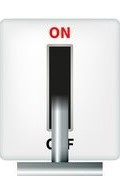
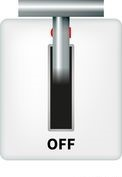
Added working lever and timing

Changed region(s): [[0.0, 0.0, 1.0, 1.0]]

diff --git a/CarnivalProject/odoo.js b/CarnivalProject/odoo.js
@@ -1,1 +1,1 @@
-!function(t,e){"object"==typeof exports&&"object"==typeof module?module.exports=e():"function"==typeof define&&define.amd?define([],e):"object"==typeof exports?exports.odoo=e():t.odoo=e()}(this,function(){return function(t){function e(a){if(r[a])return r[a].exports;var n=r[a]={exports:{},id:a,loaded:!1};return t[a].call(n.exports,n,n.exports,e),n.loaded=!0,n.exports}var r={};return e.m=t,e.c=r,e.p="/",e(0)}([function(t,e,r){"use strict";function a(t){return t&&t.__esModule?t:{"default":t}}Object.defineProperty(e,"__esModule",{value:!0});var n=r(2);Object.defineProperty(e,"default",{enumerable:!0,get:function(){return a(n)["default"]}})},function(t,e){"use strict";Object.defineProperty(e,"__esModule",{value:!0}),e["default"]=function(t){var e=void 0,r=function a(r){e=requestAnimationFrame(a),t(r)};return r(0),function(){return cancelAnimationFrame(e)}}},function(t,e,r){"use strict";function a(t){return t&&t.__esModule?t:{"default":t}}Object.defineProperty(e,"__esModule",{value:!0});var n=r(1),l=a(n),o=r(5),i=r(10),c=a(i),u=" 0123456789".split(""),f=u.length,d=2,s=function(t,e,r,a){var n,l=(n=(n=o.append.call(t,"g"),o.attr).call(n,"id","digit-"+a),o.style).call(n,"filter","url(#motionFilter-"+a+")");return u.forEach(function(t,a){var n;(n=(n=o.append.call(l,"text"),o.attr).call(n,"y",-a*e*r),o.text).call(n,t)}),l},p=function(t,e){var r;return(r=(r=(r=(r=(r=(r=(r=o.append.call(t,"filter"),o.attr).call(r,"id","motionFilter-"+e),o.attr).call(r,"width","300%"),o.attr).call(r,"x","-100%"),o.append).call(r,"feGaussianBlur"),o.attr).call(r,"class","blurValues"),o.attr).call(r,"in","SourceGraphic"),o.attr).call(r,"stdDeviation","0 0")},v=function(t){var e;return(e=(e=(e=(e=(e=o.append.call(t,"filter"),o.attr).call(e,"id","createShadowFailFilter"),o.attr).call(e,"width","300%"),o.attr).call(e,"x","-100%"),o.append).call(e,"feGaussianBlur"),o.attr).call(e,"stdDeviation","0 0")},y=function(t,e){var r;return(r=(r=(r=(r=(r=(r=(r=(r=(r=(r=(r=(r=(r=(r=(r=(r=(r=(r=(r=(r=(r=(r=(r=(r=o.append.call(t,"linearGradient"),o.attr).call(r,"id","gradient-"+e),o.attr).call(r,"x1","0%"),o.attr).call(r,"y1","0%"),o.attr).call(r,"x2","0%"),o.attr).call(r,"y2","100%"),o.append).call(r,"stop"),o.attr).call(r,"offset","0"),o.attr).call(r,"stop-color","white"),o.attr).call(r,"stop-opacity","0"),o.select).call(r,"#gradient-"+e),o.append).call(r,"stop"),o.attr).call(r,"offset","0.2"),o.attr).call(r,"stop-color","white"),o.attr).call(r,"stop-opacity","1"),o.select).call(r,"#gradient-"+e),o.append).call(r,"stop"),o.attr).call(r,"offset","0.8"),o.attr).call(r,"stop-color","white"),o.attr).call(r,"stop-opacity","1"),o.select).call(r,"#gradient-"+e),o.append).call(r,"stop"),o.attr).call(r,"offset","1"),o.attr).call(r,"stop-color","white"),o.attr).call(r,"stop-opacity","0")},h=function(t,e){var r;return(r=(r=(r=(r=(r=(r=(r=o.append.call(t,"mask"),o.attr).call(r,"id","mask-"+e),o.append).call(r,"rect"),o.attr).call(r,"x",0),o.attr).call(r,"y",0),o.attr).call(r,"width","100%"),o.attr).call(r,"height","100%"),o.attr).call(r,"fill","url(#gradient-"+e+")")},m=function(t,e,r){var a;return(a=(a=(a=o.attr.call(t,"width",e),o.attr).call(a,"height",r),o.attr).call(a,"viewBox","0 0 "+e+" "+r),o.style).call(a,"overflow","hidden")};e["default"]=function(t){var e,r=t.el,a=t.from,n=t.to,i=t.lineHeight,g=void 0===i?1.35:i,b=t.letterSpacing,_=void 0===b?1:b,x=t.animationDelay,j=void 0===x?100:x,M=t.letterAnimationDelay,w=void 0===M?100:M,O=(0,o.select)(r),P=window.getComputedStyle(O),S=parseInt(P.fontSize,10),D=(S*g-S)/2+S/10,E=S*g-D,F=Date.now(),B=0,k=S*g+D;O.innerHTML="";var A=o.append.call(O,"svg"),G=(e=o.append.call(A,"svg"),o.attr).call(e,"mask","url(#mask-"+F+")"),C=o.append.call(A,"defs");y(C,F),h(C,F),v(C);var H=String(a).replace(/ /g," ").split(""),q=String(n).replace(/ /g," ").split(""),z=q.map(function(t,e){var r=e+"-"+F;return{id:r,node:s(G,S,g,r),filter:p(C,r),from:u.indexOf(H[e]),value:u.indexOf(t),offset:{x:0,y:E}}}),I=[];z.forEach(function(t,e){var r=t.from*(S*g),a=(d*f+t.value)*(S*g),n=(0,c["default"])({from:r,to:a,delay:(z.length-1-e)*w+j,step:function(e){var n;t.offset.y=E+e%(S*g*f),(n=t.node,o.attr).call(n,"transform","translate("+t.offset.x+", "+t.offset.y+")");var l=(a-r)/2,i=Math.abs(Math.abs(e-r-l)-l)/100;(n=t.filter,o.attr).call(n,"stdDeviation","0 "+i)},end:0===e?function(){return N()}:function(t){return t}});I.push(n)});var L=function(t){B=0,z.forEach(function(t){var e=t.node.getBBox(),r=e.width;t.offset.x=B,B+=r+_}),z.forEach(function(t){var e;(e=t.node,o.attr).call(e,"transform","translate("+t.offset.x+", "+t.offset.y+")")}),m(A,B,k),I.forEach(function(e){return e.update(t)})},N=(0,l["default"])(L);return N}},function(t,e,r){"use strict";function a(t){return t&&t.__esModule?t:{"default":t}}Object.defineProperty(e,"__esModule",{value:!0}),e["default"]=function(t){var e=document.createElementNS(l["default"].svg,t);return this.appendChild(e),e};var n=r(6),l=a(n)},function(t,e){"use strict";Object.defineProperty(e,"__esModule",{value:!0}),e["default"]=function(t,e){return this.setAttribute(t,e),this}},function(t,e,r){"use strict";function a(t){return t&&t.__esModule?t:{"default":t}}Object.defineProperty(e,"__esModule",{value:!0});var n=r(7);Object.defineProperty(e,"select",{enumerable:!0,get:function(){return a(n)["default"]}});var l=r(3);Object.defineProperty(e,"append",{enumerable:!0,get:function(){return a(l)["default"]}});var o=r(4);Object.defineProperty(e,"attr",{enumerable:!0,get:function(){return a(o)["default"]}});var i=r(8);Object.defineProperty(e,"style",{enumerable:!0,get:function(){return a(i)["default"]}});var c=r(9);Object.defineProperty(e,"text",{enumerable:!0,get:function(){return a(c)["default"]}})},function(t,e){"use strict";Object.defineProperty(e,"__esModule",{value:!0}),e["default"]={svg:"http://www.w3.org/2000/svg"}},function(t,e){"use strict";Object.defineProperty(e,"__esModule",{value:!0}),e["default"]=function(t){return t===String(t)?document.querySelector(t):t}},function(t,e){"use strict";Object.defineProperty(e,"__esModule",{value:!0}),e["default"]=function(t,e){var r=arguments.length<=2||void 0===arguments[2]?"":arguments[2];return this.style.setProperty(t,e,r),this}},function(t,e){"use strict";Object.defineProperty(e,"__esModule",{value:!0}),e["default"]=function(t){return this.textContent=t,this}},function(t,e){"use strict";Object.defineProperty(e,"__esModule",{value:!0});var r=function(t){return((t*=2)<=1?t*t*t:(t-=2)*t*t+2)/2};e["default"]=function(t){var e=t.from,a=t.to,n=t.duration,l=void 0===n?3e3:n,o=t.delay,i=void 0===o?0:o,c=t.easing,u=void 0===c?r:c,f=t.start,d=void 0===f?function(t){return t}:f,s=t.step,p=void 0===s?function(t){return t}:s,v=t.end,y=void 0===v?function(t){return t}:v,h=e,m=0,g=!1,b=function(t){if(!g){m||(m=t,d(h));var r=Math.min(Math.max(t-m-i,0),l)/l;h=u(r)*(a-e)+e,p(h),1===r&&(g=!0,y(h))}};return{update:b}}}])});
+!function(t,e){"object"==typeof exports&&"object"==typeof module?module.exports=e():"function"==typeof define&&define.amd?define([],e):"object"==typeof exports?exports.odoo=e():t.odoo=e()}(this,function(){return function(t){function e(a){if(r[a])return r[a].exports;var n=r[a]={exports:{},id:a,loaded:!1};return t[a].call(n.exports,n,n.exports,e),n.loaded=!0,n.exports}var r={};return e.m=t,e.c=r,e.p="/",e(0)}([function(t,e,r){"use strict";function a(t){return t&&t.__esModule?t:{"default":t}}Object.defineProperty(e,"__esModule",{value:!0});var n=r(2);Object.defineProperty(e,"default",{enumerable:!0,get:function(){return a(n)["default"]}})},function(t,e){"use strict";Object.defineProperty(e,"__esModule",{value:!0}),e["default"]=function(t){var e=void 0,r=function a(r){e=requestAnimationFrame(a),t(r)};return r(0),function(){return cancelAnimationFrame(e)}}},function(t,e,r){"use strict";function a(t){return t&&t.__esModule?t:{"default":t}}Object.defineProperty(e,"__esModule",{value:!0});var n=r(1),l=a(n),o=r(5),i=r(10),c=a(i),u=" 01234567890123456789".split(""),f=u.length,d=2,s=function(t,e,r,a){var n,l=(n=(n=o.append.call(t,"g"),o.attr).call(n,"id","digit-"+a),o.style).call(n,"filter","url(#motionFilter-"+a+")");return u.forEach(function(t,a){var n;(n=(n=o.append.call(l,"text"),o.attr).call(n,"y",-a*e*r),o.text).call(n,t)}),l},p=function(t,e){var r;return(r=(r=(r=(r=(r=(r=(r=o.append.call(t,"filter"),o.attr).call(r,"id","motionFilter-"+e),o.attr).call(r,"width","300%"),o.attr).call(r,"x","-100%"),o.append).call(r,"feGaussianBlur"),o.attr).call(r,"class","blurValues"),o.attr).call(r,"in","SourceGraphic"),o.attr).call(r,"stdDeviation","0 0")},v=function(t){var e;return(e=(e=(e=(e=(e=o.append.call(t,"filter"),o.attr).call(e,"id","createShadowFailFilter"),o.attr).call(e,"width","300%"),o.attr).call(e,"x","-100%"),o.append).call(e,"feGaussianBlur"),o.attr).call(e,"stdDeviation","0 0")},y=function(t,e){var r;return(r=(r=(r=(r=(r=(r=(r=(r=(r=(r=(r=(r=(r=(r=(r=(r=(r=(r=(r=(r=(r=(r=(r=(r=o.append.call(t,"linearGradient"),o.attr).call(r,"id","gradient-"+e),o.attr).call(r,"x1","0%"),o.attr).call(r,"y1","0%"),o.attr).call(r,"x2","0%"),o.attr).call(r,"y2","100%"),o.append).call(r,"stop"),o.attr).call(r,"offset","0"),o.attr).call(r,"stop-color","white"),o.attr).call(r,"stop-opacity","0"),o.select).call(r,"#gradient-"+e),o.append).call(r,"stop"),o.attr).call(r,"offset","0.2"),o.attr).call(r,"stop-color","white"),o.attr).call(r,"stop-opacity","1"),o.select).call(r,"#gradient-"+e),o.append).call(r,"stop"),o.attr).call(r,"offset","0.8"),o.attr).call(r,"stop-color","white"),o.attr).call(r,"stop-opacity","1"),o.select).call(r,"#gradient-"+e),o.append).call(r,"stop"),o.attr).call(r,"offset","1"),o.attr).call(r,"stop-color","white"),o.attr).call(r,"stop-opacity","0")},h=function(t,e){var r;return(r=(r=(r=(r=(r=(r=(r=o.append.call(t,"mask"),o.attr).call(r,"id","mask-"+e),o.append).call(r,"rect"),o.attr).call(r,"x",0),o.attr).call(r,"y",0),o.attr).call(r,"width","100%"),o.attr).call(r,"height","100%"),o.attr).call(r,"fill","url(#gradient-"+e+")")},m=function(t,e,r){var a;return(a=(a=(a=o.attr.call(t,"width",e),o.attr).call(a,"height",r),o.attr).call(a,"viewBox","0 0 "+e+" "+r),o.style).call(a,"overflow","hidden")};e["default"]=function(t){var e,r=t.el,a=t.from,n=t.to,i=t.lineHeight,g=void 0===i?1.35:i,b=t.letterSpacing,_=void 0===b?1:b,x=t.animationDelay,j=void 0===x?100:x,M=t.letterAnimationDelay,w=void 0===M?100:M,O=(0,o.select)(r),P=window.getComputedStyle(O),S=parseInt(P.fontSize,10),D=(S*g-S)/2+S/10,E=S*g-D,F=Date.now(),B=0,k=S*g+D;O.innerHTML="";var A=o.append.call(O,"svg"),G=(e=o.append.call(A,"svg"),o.attr).call(e,"mask","url(#mask-"+F+")"),C=o.append.call(A,"defs");y(C,F),h(C,F),v(C);var H=String(a).replace(/ /g," ").split(""),q=String(n).replace(/ /g," ").split(""),z=q.map(function(t,e){var r=e+"-"+F;return{id:r,node:s(G,S,g,r),filter:p(C,r),from:u.indexOf(H[e]),value:u.indexOf(t),offset:{x:0,y:E}}}),I=[];z.forEach(function(t,e){var r=t.from*(S*g),a=(d*f+t.value)*(S*g),n=(0,c["default"])({from:r,to:a,delay:(z.length-1-e)*w+j,step:function(e){var n;t.offset.y=E+e%(S*g*f),(n=t.node,o.attr).call(n,"transform","translate("+t.offset.x+", "+t.offset.y+")");var l=(a-r)/2,i=Math.abs(Math.abs(e-r-l)-l)/100;(n=t.filter,o.attr).call(n,"stdDeviation","0 "+i)},end:0===e?function(){return N()}:function(t){return t}});I.push(n)});var L=function(t){B=0,z.forEach(function(t){var e=t.node.getBBox(),r=e.width;t.offset.x=B,B+=r+_}),z.forEach(function(t){var e;(e=t.node,o.attr).call(e,"transform","translate("+t.offset.x+", "+t.offset.y+")")}),m(A,B,k),I.forEach(function(e){return e.update(t)})},N=(0,l["default"])(L);return N}},function(t,e,r){"use strict";function a(t){return t&&t.__esModule?t:{"default":t}}Object.defineProperty(e,"__esModule",{value:!0}),e["default"]=function(t){var e=document.createElementNS(l["default"].svg,t);return this.appendChild(e),e};var n=r(6),l=a(n)},function(t,e){"use strict";Object.defineProperty(e,"__esModule",{value:!0}),e["default"]=function(t,e){return this.setAttribute(t,e),this}},function(t,e,r){"use strict";function a(t){return t&&t.__esModule?t:{"default":t}}Object.defineProperty(e,"__esModule",{value:!0});var n=r(7);Object.defineProperty(e,"select",{enumerable:!0,get:function(){return a(n)["default"]}});var l=r(3);Object.defineProperty(e,"append",{enumerable:!0,get:function(){return a(l)["default"]}});var o=r(4);Object.defineProperty(e,"attr",{enumerable:!0,get:function(){return a(o)["default"]}});var i=r(8);Object.defineProperty(e,"style",{enumerable:!0,get:function(){return a(i)["default"]}});var c=r(9);Object.defineProperty(e,"text",{enumerable:!0,get:function(){return a(c)["default"]}})},function(t,e){"use strict";Object.defineProperty(e,"__esModule",{value:!0}),e["default"]={svg:"http://www.w3.org/2000/svg"}},function(t,e){"use strict";Object.defineProperty(e,"__esModule",{value:!0}),e["default"]=function(t){return t===String(t)?document.querySelector(t):t}},function(t,e){"use strict";Object.defineProperty(e,"__esModule",{value:!0}),e["default"]=function(t,e){var r=arguments.length<=2||void 0===arguments[2]?"":arguments[2];return this.style.setProperty(t,e,r),this}},function(t,e){"use strict";Object.defineProperty(e,"__esModule",{value:!0}),e["default"]=function(t){return this.textContent=t,this}},function(t,e){"use strict";Object.defineProperty(e,"__esModule",{value:!0});var r=function(t){return((t*=2)<=1?t*t*t:(t-=2)*t*t+2)/2};e["default"]=function(t){var e=t.from,a=t.to,n=t.duration,l=void 0===n?3e3:n,o=t.delay,i=void 0===o?0:o,c=t.easing,u=void 0===c?r:c,f=t.start,d=void 0===f?function(t){return t}:f,s=t.step,p=void 0===s?function(t){return t}:s,v=t.end,y=void 0===v?function(t){return t}:v,h=e,m=0,g=!1,b=function(t){if(!g){m||(m=t,d(h));var r=Math.min(Math.max(t-m-i,0),l)/l;h=u(r)*(a-e)+e,p(h),1===r&&(g=!0,y(h))}};return{update:b}}}])});

diff --git a/CarnivalProject/SlotMachineCarnivalSite.html b/CarnivalProject/SlotMachineCarnivalSite.html
@@ -14,22 +14,27 @@
 			font-size: 40px;
 		}
 		html, body {
-		  height: 100%;
-		  width: 100%;
-		  overflow: hidden;
-		  background-color: #000000; //Black
+			height: 100%;
+			width: 100%;
+			overflow: hidden;
+			background-color: #000000; //Black
 		}
-		p, h1, form {
+		p, h1 {
 			text-align: center;
 		}
+		img {
+			display: block;
+			margin-left: auto;
+			margin-right: auto;
+		}
 		.js-odoo-1 {
-		  font-weight: bold;
-		  font-size: 40vmin;
-		  text-shadow: 1px 1px 5px rgba(0,0,0,0.5);
-		  fill: #f53;
-		  display: flex;
-		  justify-content: center;
-		  align-items: center;
+			font-weight: bold;
+			font-size: 40vmin;
+			text-shadow: 1px 1px 5px rgba(0,0,0,0.5);
+			fill: #f53;
+			display: flex;
+			justify-content: center;
+			align-items: center;
 		 }
 		.js-odoo-2 {
 		  font-weight: bold;
@@ -72,6 +77,7 @@
             init();
         }
 		function showNumbers() {
+			changeImage();
 			var num1, num2, num3, num4;
 			num1 = Math.floor(Math.random()*10);
 			do {
@@ -88,57 +94,67 @@
 				el:'.js-odoo-1',
 				from: prevNum1,
 				to: num1,
-				animationDelay: 500,
+				animationDelay: 500
 			});
 			odoo.default({
 				el:'.js-odoo-2',
 				from: prevNum2,
 				to: num2,
-				animationDelay: 700,
+				animationDelay: 1000
 			});
 			odoo.default({
 				el:'.js-odoo-3',
 				from: prevNum3,
 				to: num3,
-				animationDelay: 900,
+				animationDelay: 1500
 			});
 			odoo.default({
 				el:'.js-odoo-4',
 				from: prevNum4,
 				to: num4,
-				animationDelay: 1100,
+				animationDelay: 2000
 			});
 			
 			prevNum1 = num1;
 			prevNum2 = num2;
 			prevNum3 = num3;
 			prevNum4 = num4;
+			changeImage();
+		}
+		function changeImage() {
+			var img = document.getElementById("lever");
+			img.src = "SkullOn.png";
+			setTimeout(function() {
+				img.src = "SkullOff.png";
+			}, 5000);
 		}
 	</script>
 <title>Lottery Picker</title>
 </head>
 <body>
-	<div style="text-align:center;">
-		<button type="button" class="bigButt" id="inputButton">TAP TO SPIN</button>
-	</div>
+	<!--<div style="text-align:center;">
+		<button type="button" id="input" class="bigButt">SPIN TO WIN</button>
+	</div>-->
+	</br></br></br></br></br>
 	<table style="width:100%; color:#FFFFFF;">
-	  <tr>
-		<th>Num 1</th>
-		<th>Num 2</th> 
-		<th>Num 3</th>
-		<th>Num 4</th>
-		<th>LEVER</th>
-	  </tr>
-	  <tr>
-		<td><script class="js-odoo-1" src="odoo.js"></script></td>
-		<td><script class="js-odoo-2" src="odoo.js"></script></td>
-		<td><script class="js-odoo-3" src="odoo.js"></script></td>
-		<td><script class="js-odoo-4" src="odoo.js"></script></td>
-	  </tr>
+		<tr>
+			<th>Num 1</th>
+			<th>Num 2</th> 
+			<th>Num 3</th>
+			<th>Num 4</th>
+			<th>LEVER</th>
+		</tr>
+	<tr style="height:410px;">
+			<td><script class="js-odoo-1" src="odoo.js"></script></td>
+			<td><script class="js-odoo-2" src="odoo.js"></script></td>
+			<td><script class="js-odoo-3" src="odoo.js"></script></td>
+			<td><script class="js-odoo-4" src="odoo.js"></script></td>
+			<td style="width:20%;"><img id="lever" src="SkullOff.png"></img></td>
+		</tr>
 	</table>
 	<script>
 		var randomizerButton = new randomizerButton(
-			document.getElementById("inputButton"));
+			document.getElementById("lever"));
 	</script>
 </body>
 </html>

diff --git a/README.md b/README.md
@@ -1,13 +1,10 @@
 # APStatsProjectSites
-<<<<<<< HEAD
 Just a bit of playing around with HTML to make my AP Statistics projects easier
 This is where I will store any websites that I use for stats project, along with a little playing around I did with JS.
 
 Used code from:
 https://codemyui.com/slot-machine-text-animation/
-
-Attempted to use code from:
-https://github.com/josex2r/jQuery-SlotMachine
+to make the Carnival Project
 
 =======
 I play around with HTML to build parts of websites to make AP Statistics projects easier for me. I also try out some NodeJS in this repository.
